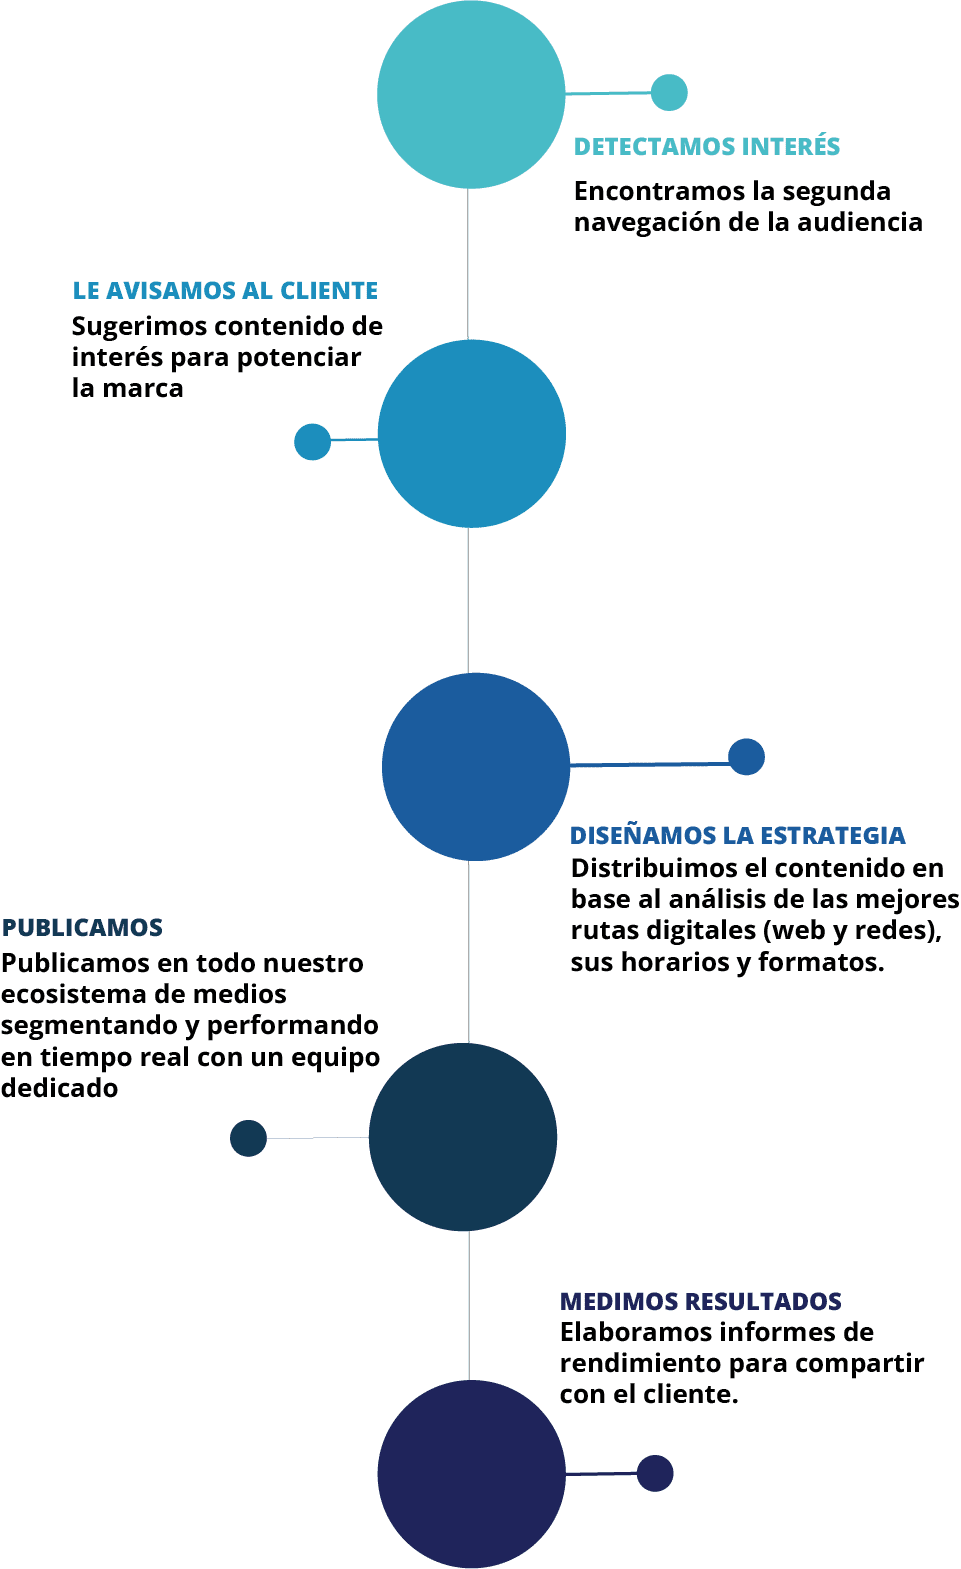
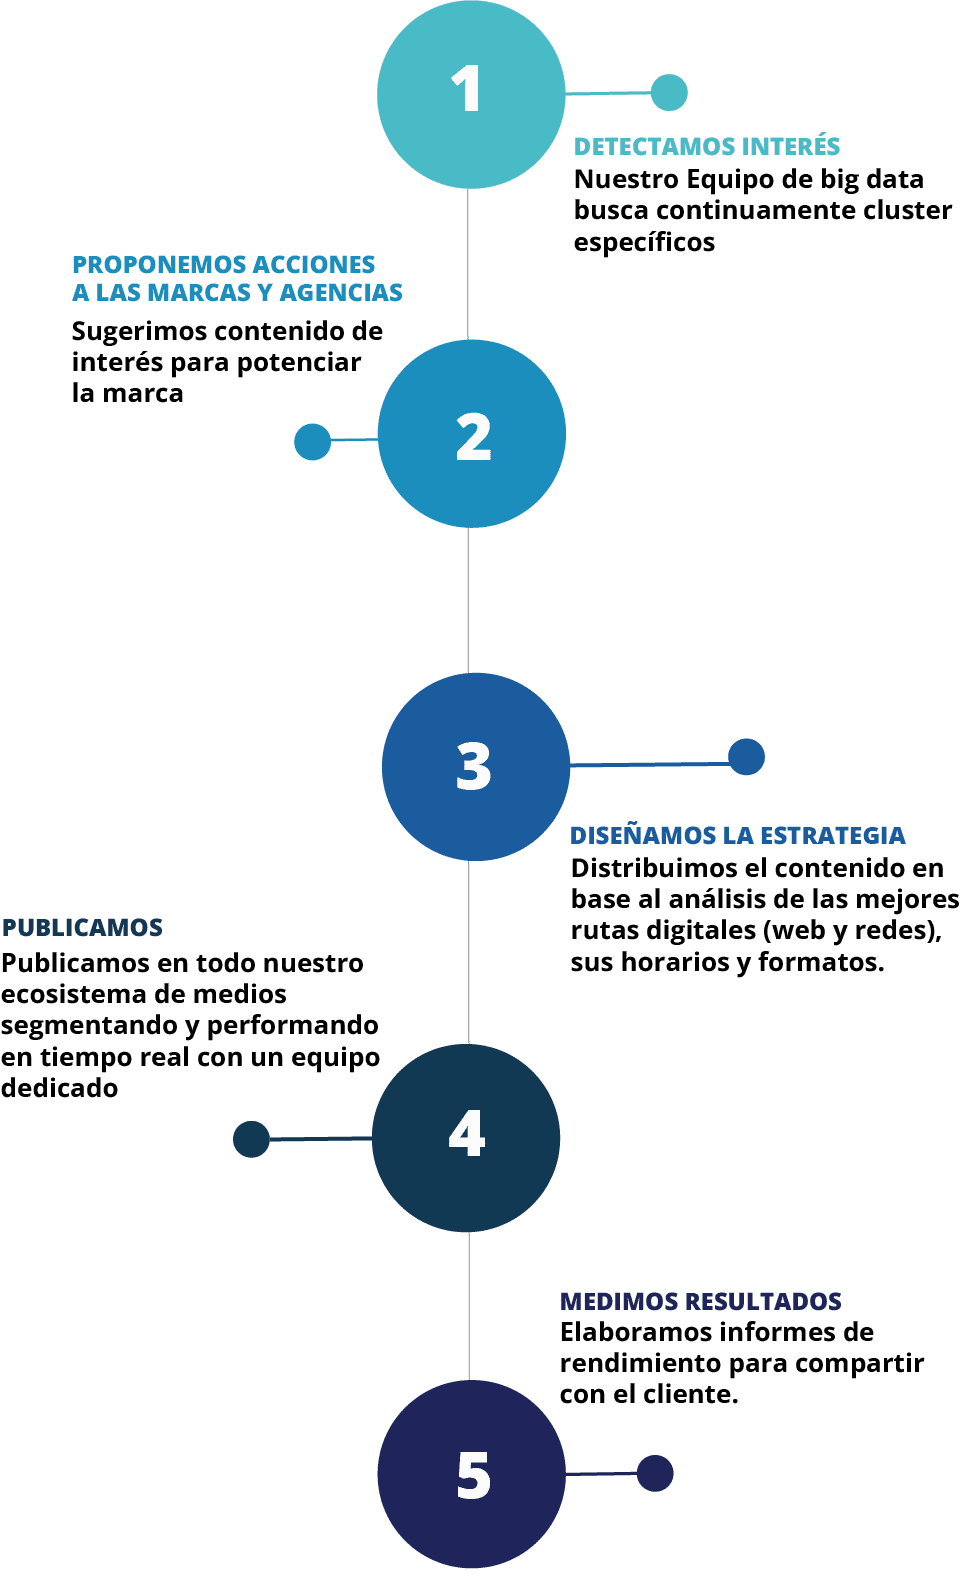
Add files via upload

diff --git a/index.html b/index.html
@@ -241,7 +241,7 @@
 
     </div>  
       <div class="animado proceso mt-5">
-          <img src="imgs/procesoquipom.png">
+          <img src="imgs/proceso.png">
         </div>
       <div class="procesoresponsive mt-5">
         <img src="imgs/procesoresponsive.png">
@@ -320,6 +320,24 @@ integralmente.</p>
   </div>
   <div class="row">
     <div class="col-lg-3 col-sm-10">
+      <img class="screenmobile" src="gifs/mobile1.gif">
+      <p class="mt-4"><strong>Formato mobile
+      </strong></p><hr class="linea">
+      <p><strong>Medidas: 300 x 250</strong></p> <hr class="linea">
+    </div>
+  <div class="col-lg-3 col-sm-10">
+    <img class="screenmobile" src="banners/mobile2_Mesa de trabajo 1.png">
+    <p class="mt-4"><strong>Formato mobile</strong></p><hr class="linea">
+    <p><strong>Medidas: 320 x 50</strong></p> <hr class="linea">
+  </div>
+  <div class="col-lg-3 col-sm-10">
+    <img class="screenmobile" src="banners/mobile3_Mesa de trabajo 1 copia.png">
+    <p class="mt-4"><strong>Alto Impacto Intersticial</strong></p><hr class="linea">
+    <p><strong>Medidas: 320 x 480</strong></p> <hr class="linea">
+  </div>
+</div>
+  <div class="row">
+    <div class="col-lg-3 col-sm-10">
       <img class="screenpc" src="imgs/medidaspc.gif">
       <p class="mt-4"><strong>Banner tradicional HOME y NOTA</strong></p><hr class="linea">
       <p><strong>Medidas: 300 x 250</strong></p> <hr class="linea">
@@ -357,24 +375,6 @@ integralmente.</p>
       <p><strong>Medidas: 728 x 90</strong></p> <hr class="linea">
     </div>
   </div>
-  <div class="row">
-    <div class="col-lg-3 col-sm-10">
-      <img class="screenmobile" src="gifs/mobile1.gif">
-      <p class="mt-4"><strong>Formato mobile
-      </strong></p><hr class="linea">
-      <p><strong>Medidas: 300 x 250</strong></p> <hr class="linea">
-    </div>
-  <div class="col-lg-3 col-sm-10">
-    <img class="screenmobile" src="banners/mobile2_Mesa de trabajo 1.png">
-    <p class="mt-4"><strong>Formato mobile</strong></p><hr class="linea">
-    <p><strong>Medidas: 320 x 50</strong></p> <hr class="linea">
-  </div>
-  <div class="col-lg-3 col-sm-10">
-    <img class="screenmobile" src="banners/mobile3_Mesa de trabajo 1 copia.png">
-    <p class="mt-4"><strong>Alto Impacto Intersticial</strong></p><hr class="linea">
-    <p><strong>Medidas: 320 x 480</strong></p> <hr class="linea">
-  </div>
-</div>
 </section>
 <section class="productosdigitales">
 <h2 class="container"><strong>Productos Digitales</strong></h2>
@@ -420,7 +420,7 @@ integralmente.</p>
 <section id="contacto" class="quienessomos animado">
     <h2 class="text-center"><strong>QUIENES SOMOS</strong></h2>
     <div class="container text-center mt-5">
-        <div class="row mail"><div class="col-1"></div>
+        <div class="row mail"><div class="col-3"></div>
         <div class="col-sm-4 col-lg-2">
           <a href="mailto:agustino@perfil.com?">
             <img src="imgs/agustino}.png">
@@ -439,53 +439,7 @@ integralmente.</p>
                 <p><strong>Nerina Sturgeon</strong></p>
                 <p class="puesto">Coordinadora Multimedia</p></a>
             </div>
-            <div class="col-sm-4 col-lg-2">
-              <a href="mailto:carigos@perfil.com?">
-                <img src="imgs/cande.png">
-                <p><strong>Candela Arigós</strong></p>
-                <p class="puesto"> Editora</p></a>
-            </div>
-            <div class="col-sm-4 col-lg-2">
-              <a href="mailto:lfranco@perfil.com?">
-                <img src="imgs/lu.png">
-                <p class="puesto mt-1"><strong>Lucía Luján Franco</strong></p>
-                <p class="puesto">Periodista</p></a>
-            </div>
         </div>
-    
-        <div class="row mail text-center"><div class="col-1"></div>
-        <div class="col-sm-4 col-lg-2">
-          <a href="mailto:magarinoperfil@gmail.com?">
-            <img src="imgs/mati.png">
-            <p class="puesto mt-1"><strong>Matías Edgardo Magariño</strong></p>
-            <p class="puesto">Periodista</p></a>
-        </div>
-          <div class="col-sm-4 col-lg-2">
-            <a href="mailto:menendezagustina96@gmail.com?">
-              <img src="imgs/agus.png">
-              <p><strong>Agustina Sol Menendez</strong></p>
-              <p class="puesto">Periodista</p></a>
-          </div>
-          <div class="col-sm-4 col-lg-2">
-            <a href="mailto:clgomez@perfil.com?">
-              <img src="imgs/candegomez.png">
-              <p><strong>Candela L. Gomez</strong></p>
-              <p class="puesto">Periodista</p></a>
-          </div>
-          <div class="col-sm-4 col-lg-2">
-            <a href="mailto:marianodiluch1@gmail.com?">
-              <img src="imgs/marian.png">
-              <p class="puesto mt-1"><strong>Mariano Li Duch</strong></p>
-              <p class="puesto">Editor</p></a>
-          </div>
-          <div class="col-sm-4 col-lg-2">
-            <a href="mailto:franco.pagniello@gmail.com?">
-              <img src="imgs/fran.png">
-              <p class="puesto mt-1"><strong>Franco Roman Pagniello</strong></p>
-              <p class="puesto">Editor</a></p></a>
-          </div>
-        
-      </div>
     </div>
 <hr>
 </section>
